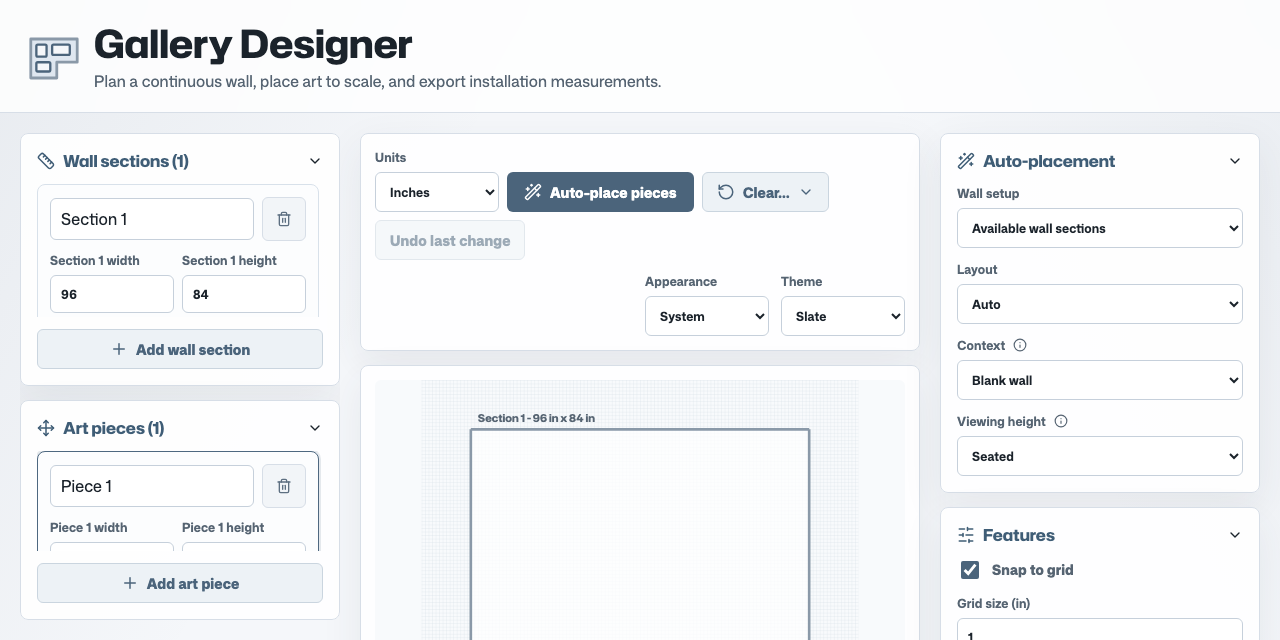
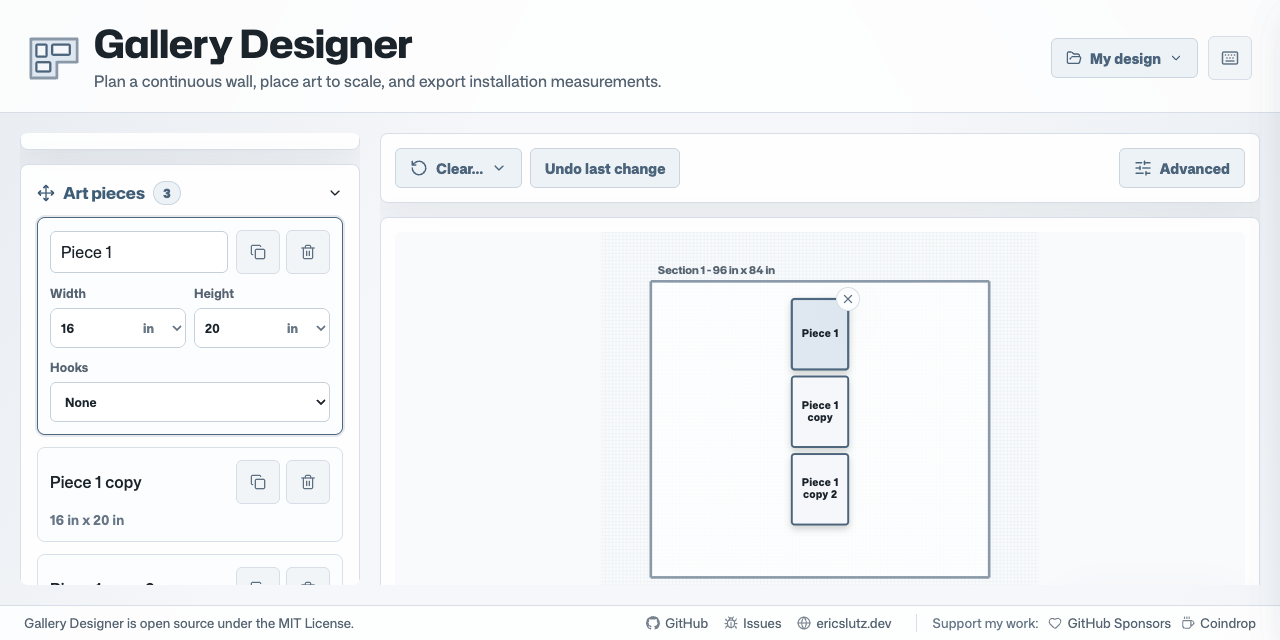
Refresh social preview and clarify exports

diff --git a/README.md b/README.md
@@ -8,12 +8,12 @@ Gallery Designer is a browser-based tool for planning a gallery wall to scale. Y
 - Add art pieces with exact dimensions and optional hook positions.
 - Place pieces manually or let the auto-placement solver arrange them.
 - Work with wall furniture and features when planning a full wall.
-- Export the design as JSON, PNG, or PDF with installation measurements.
-- Keep work local with autosave in browser storage.
+- Export PNG or PDF installation plans with measurements, or export JSON to back up the editable design.
+- Keep work local with autosave in browser storage; save multiple designs and switch between them.
 
 ## Core Features
 
-- Local-first state: designs autosave in browser `localStorage`.
+- Local-first state: multiple designs autosave in browser `localStorage`, and the design switcher lets you move between them.
 - Continuous wall canvas: connected sections behave like one unfolded wall surface.
 - Manual layout tools: drag artwork, zoom and pan the wall, and refine placement visually.
 - Measurement support: hook metadata and exportable hanging instructions are built in.
@@ -27,7 +27,7 @@ Gallery Designer is a browser-based tool for planning a gallery wall to scale. Y
 3. Add hook positions if you want installation measurements for the hanging hardware, not just the frame.
 4. Drag pieces onto the wall for a manual layout, or run auto-placement.
 5. Review the measurement table and adjust spacing, margins, or features as needed.
-6. Export the finished plan as JSON, PNG, or PDF.
+6. Export JSON to back up the editable design, or export PNG/PDF installation plans with measurements.
 
 ### Keyboard Shortcuts
 
@@ -108,9 +108,8 @@ Current feature defaults:
 
 Gallery Designer can export:
 
-- JSON for saving and reloading a design
-- PNG for a visual snapshot
-- PDF for a visual layout plus measurement instructions
+- JSON for exporting or backing up the editable design
+- PNG and PDF for visual installation plans with measurement instructions
 
 Measurement instructions follow the actual app logic:
 
@@ -128,7 +127,7 @@ Security vulnerabilities should not be reported in public issues. Use GitHub Sec
 
 ## Developer Notes
 
-Gallery Designer is a local-first Vite/React app. There is no backend, account setup, database, or external service required for local development. Designs autosave to the browser's `localStorage`, and PNG/PDF export runs entirely in the browser.
+Gallery Designer is a local-first Vite/React app. There is no backend, account setup, database, or external service required for local development. Multiple designs autosave to the browser's `localStorage` and can be switched from the design switcher. PNG/PDF installation-plan export runs entirely in the browser; JSON exports an editable backup.
 
 ### Prerequisites
 
